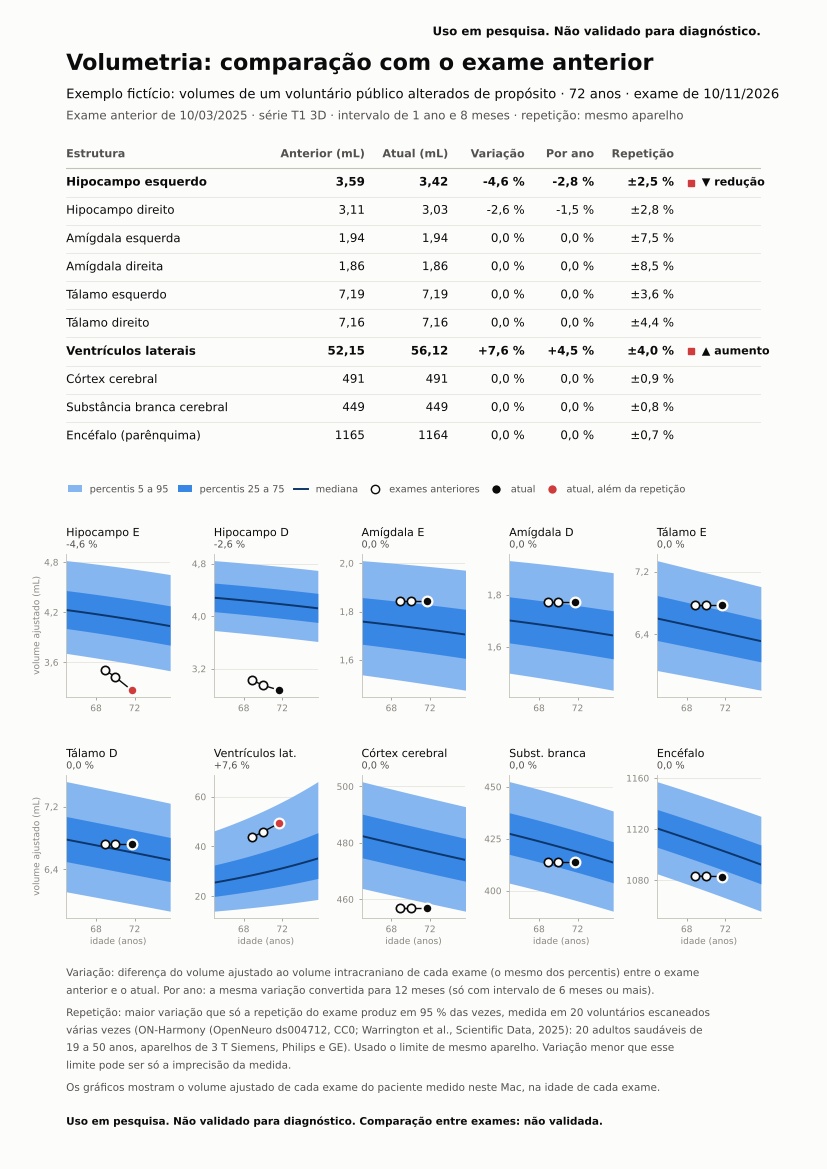
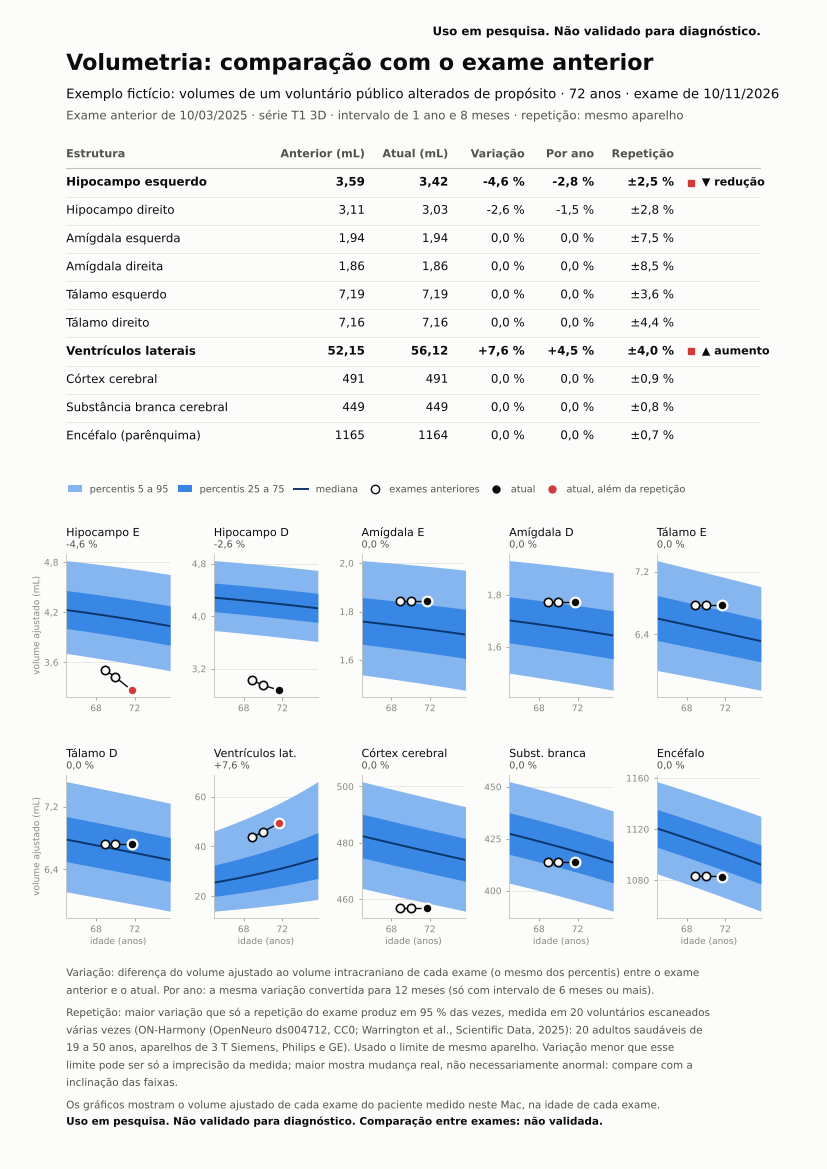
Comparação: a marca indica mudança real, não necessariamente anormal
Claude-Session: https://claude.ai/code/session_018zfDYXD53w94fVTgjcxpjh

Changed region(s): [[0.0907, 0.8931, 0.786, 0.9547]]

diff --git a/engine/neurolaudo/volumetry/compare_report.py b/engine/neurolaudo/volumetry/compare_report.py
@@ -158,7 +158,8 @@ def build_comparison_figure(norms: Norms, comparison: Mapping, records: Sequence
     if repeatability:
         lines.append("Repetição: maior variação que só a repetição do exame produz em 95 % das vezes, medida em "
                      f"{repeatability.get('pessoas', '?')} voluntários escaneados várias vezes ({repeatability.get('fonte', '')}). "
-                     f"Usado o limite de {scenario}. Variação menor que esse limite pode ser só a imprecisão da medida.")
+                     f"Usado o limite de {scenario}. Variação menor que esse limite pode ser só a imprecisão da medida; "
+                     "maior mostra mudança real, não necessariamente anormal: compare com a inclinação das faixas.")
     lines.append("Os gráficos mostram o volume ajustado de cada exame do paciente medido neste Mac, na idade de cada exame.")
     y = 0.172
     for line in lines:

diff --git a/docs/VOLUMETRIA.md b/docs/VOLUMETRIA.md
@@ -110,6 +110,10 @@ Como ler:
   do hipocampo na literatura é de cerca de 1,4 % em idosos saudáveis e de 4,7 %
   na doença de Alzheimer (metanálise de Barnes e colaboradores, 2009). Em
   intervalos curtos, a comparação só deve marcar perdas grandes.
+- **A marca não quer dizer anormal.** Ela diz que a variação é maior que o erro
+  da medida, ou seja, que houve mudança de verdade. Em intervalos longos, a
+  perda do envelhecimento normal também passa do limite; a inclinação das faixas
+  da referência nos gráficos mostra o que é esperado para a idade.
 - **Amígdalas**: limite de 7,5 a 8,8 %. Pouco úteis para acompanhar.
 - **Encéfalo, córtex e substância branca**: os mais estáveis.
 - **Aparelho puxa para um lado**: em um dos aparelhos (GE), o tálamo direito
